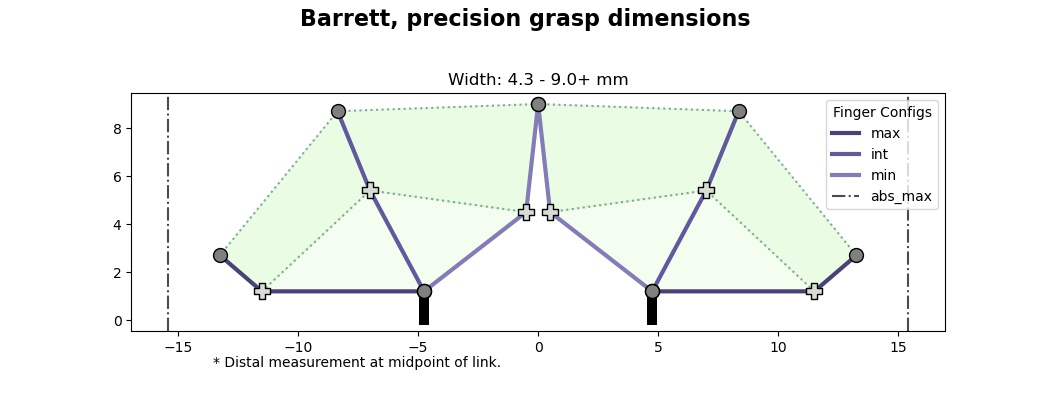
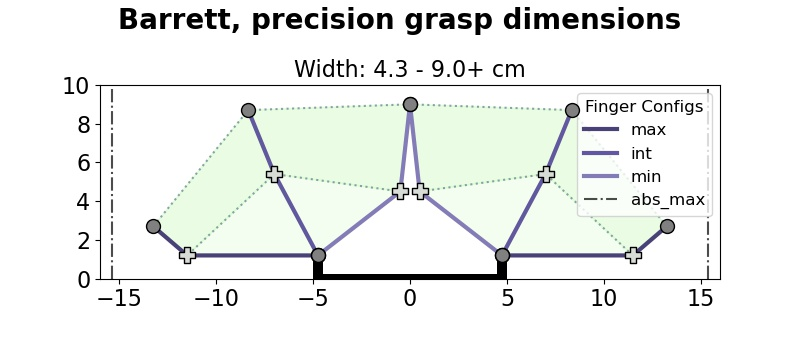
can configure font size for plot text better

diff --git a/Results/plot_hand_dims.py b/Results/plot_hand_dims.py
@@ -79,20 +79,22 @@ def plots_both_types(hand_name, fig_size=20,
                      inf_width=True, halve_measurements=True, distal_measurement="midpoint",
                      save_plot=False, show_plot=True):
     # TODO: make sure aspect ratio looks nicely with 
-    fig = plt.figure(figsize=(1*fig_size, 0.25*fig_size)) # TODO: comes out weird with the two plots
+    # fig = plt.figure(figsize=(0.75*fig_size, 0.25*fig_size)) # TODO: comes out weird with the two plots
+    fig = plt.figure(figsize=(16, 8))
     width_inf = True  # TODO: fix here!
 
     dims = HandDims(hand_name, "precision", inf_width=inf_width,
                     halve_measurements=halve_measurements, distal_measurement=distal_measurement)
     # max_list, int_list, min_list, (max_w, min_w), absmax = read_csv_measurements(hand, "precision")
     ax1 = fig.add_subplot(1,2,1)
-    dims.plot_dims(subplot_fig=fig, subplot_ax=ax1, show_plot=False, save_plot=False)
+    dims.plot_dims(subplot_fig=fig, subplot_ax=ax1, tick_font_size=16, show_plot=False, save_plot=False)
 
     dims2 = HandDims(hand_name, "power", inf_width=inf_width,
                     halve_measurements=halve_measurements, distal_measurement=distal_measurement)
     # max_list, int_list, min_list, (max_w, min_w), absmax = read_csv_measurements(hand, "power")
-    ax2 = fig.add_subplot(1,2,2)
-    dims2.plot_dims(subplot_fig=fig, subplot_ax=ax2, show_plot=False, save_plot=False)
+    ax2 = fig.add_subplot(1,2,2, sharey=ax1)
+    plt.setp(ax2.get_yticklabels(), visible=False)
+    dims2.plot_dims(subplot_fig=fig, subplot_ax=ax2, tick_font_size=16, show_plot=False, save_plot=False)
 
     # overwrite the titling from the make_dimension_plot
     fig.suptitle(f"{hand_name.capitalize()} Measurements, Power and Precision", fontweight='bold', fontsize=16)
@@ -430,9 +432,9 @@ class HandDims:
         title = f"{self.hand.capitalize()}, {self.dim_type} grasp dimensions"
 
         if None in self.widths:
-            ax.set_title(title)
+            ax.set_title(title, fontweight='bold', fontsize=20)
         else:
-            fig.suptitle(title, fontweight='bold', fontsize=16)
+            fig.suptitle(title, fontweight='bold', fontsize=20)
 
             if width_vals[2]:  # width_vals[2] is a boolean which indicates whether max width value is capped or can theoretically go on forever
                 width_modifier = "+"
@@ -440,22 +442,23 @@ class HandDims:
                 width_modifier = ""
 
             widths = f"Width: {width_vals[1]} - {width_vals[0]}{width_modifier} cm"
-            ax.set_title(widths)
+            ax.set_title(widths, fontsize=tick_font_size)
 
         if self.distal_dim_point is not None:
             subtitle = f"* Distal measurement at {self.distal_dim_point} of link."
-            ax.text(0.1, -0.15, subtitle, transform=ax.transAxes, fontsize=10)
+            ax.text(0.1, -0.15, subtitle, transform=ax.transAxes, fontsize=tick_font_size)
 
         if plt_xlims is not None:
             plt.xlim(plt_xlims) # [-12, 12])
         if plt_ylims is not None:
             plt.ylim(plt_ylims) # [0, 8])
 
-        plt.rc('xtick', labelsize=tick_font_size)
-        plt.rc('ytick', labelsize=tick_font_size)
+        plt.yticks(fontsize=tick_font_size)
+        plt.xticks(fontsize=tick_font_size)
 
         if show_legend:
-            plt.legend(title="Finger Configs")  # TODO: maybe set alpha to 1 for legend?
+            plt.legend(title="Finger Configs", title_fontsize=12, fontsize=12)  # TODO: maybe set alpha to 1 for legend?
+
         ax.set_aspect('equal', adjustable='box')
 
         if save_plot:
@@ -513,9 +516,9 @@ class HandDims:
                            )
 
         elif obj_shape == "ellipse":
-            circ_depth = plot_depth * (self.max_depth - self.get_dim_pair("min", "base")[1])
-            circ_bot = circ_depth + object_span
-            shape = Ellipse((0, circ_bot), object_span, object_depth,
+            ell_depth = plot_depth * (self.max_depth - self.get_dim_pair("min", "base")[1])
+            ell_bot = ell_depth + object_depth/2.0
+            shape = Ellipse((0, ell_bot), object_span, object_depth,
                             edgecolor='xkcd:burnt orange',
                            facecolor='none',
                            lw=2
@@ -564,7 +567,7 @@ if __name__ == '__main__':
                 "Pudding": [3.41, 8.77, "rectangle"],
                 "Golfball": [3.9, 0, "circle"],
                 "Lock_base": [5.3975, 2.86, "rectangle"],
-                "Hammer": [3.4925, 2.54, "rectangle"],
+                "Hammer": [3.4925, 2.54, "ellipse"],
                 "Cheezits_bigside": [15.875, 6.0325, "rectangle"],
                 "Cheezits_smallside": [6.0325, 15.875, "rectangle"],
                 "Die": [1.5875, 1.5876, "rectangle"],
@@ -575,25 +578,26 @@ if __name__ == '__main__':
     all_obj_spans = [obj_size[k][0] for k in obj_size.keys()]
 
     # options: barrett, human, jaco2, mO_cylindrical, mO_spherical, mt42, robotiq2f85
-    hand = "barrett"
+    hand = "robotiq2f85"
     # options: precision, power
     dim_type = "precision"
     # object dimension you want to test
-    obj_name = "Pudding"
+    obj_name = "Cheezits_smallside"
     obj_dim = obj_size[obj_name][0]
     obj_dim_depth=obj_size[obj_name][1]
     obj_shape = obj_size[obj_name][2]
-    obj_plot_depth = 0.4
+    obj_plot_depth = 0.02
 
-    # dims = HandDims(hand, dim_type, inf_width=True, halve_measurements=True, distal_measurement="midpoint")
-    # dims.size_object(obj_dim)
-    # fig, ax = dims.plot_dims(plt_xlims=[-16, 16],
-    #                        # plt_ylims=[0, 10],
-    #                        fig_size_ratio=[1, 0.5],
-    #                        show_legend=False,
-    #                        tick_font_size=20, fig_size=8,
-    #                        show_plot=False, save_plot=False)
-    # dims.plot_object(fig, ax, plot_depth=obj_plot_depth, span_adjust=0,
+    dims = HandDims(hand, dim_type, inf_width=True, halve_measurements=True, distal_measurement=None)
+    dims.size_object(obj_dim)
+    fig, ax = dims.plot_dims(plt_xlims=[-16, 16],
+                           plt_ylims=[0, 10],
+                           fig_size_ratio=[1, 0.45],
+                           show_legend=True,
+                           tick_font_size=16, fig_size=8,
+                           show_plot=True, save_plot=False)
+    # dims.plot_object(fig, ax, 
+    #                  plot_depth=obj_plot_depth, span_adjust=0,
     #                  object_span=obj_dim, object_depth=obj_dim_depth,
     #                  obj_name=obj_name, obj_shape=obj_shape,
     #                  obj_angle=0, show_plot=True, save_plot=False)
